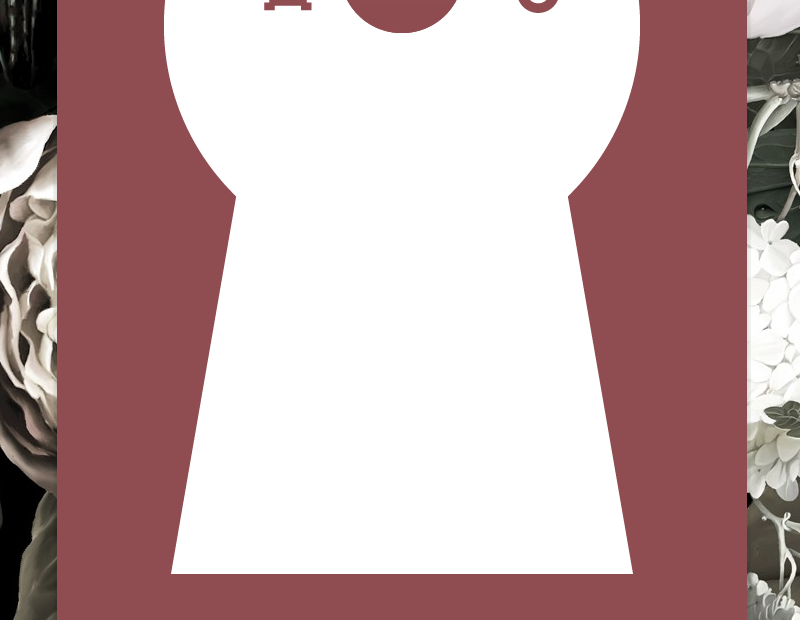
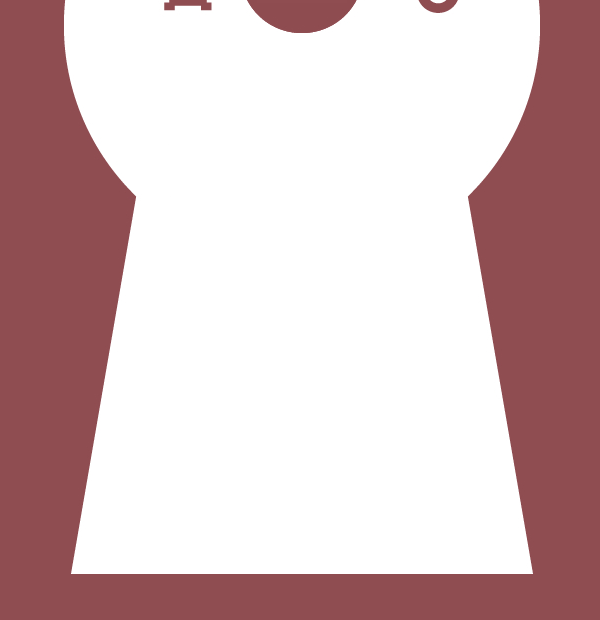
tweaked the email to use images

diff --git a/entry.php b/entry.php
@@ -30,15 +30,15 @@ function sendEmail($email, $code, $goal, $name, $id) {
 	$message .= "</style>\n";
 	$message .= "</head>\n";
 	$message .= "<body style='margin: 0; padding: 0; background: transparent url(http://www.waltonsecret.com/images/email/ws-email_bg.png'>\n";
-	$message .= "<table cellpadding='0' cellspacing='0' border='0' width='800px' style='min-width:800px; width: 800px;'>\n";
+	$message .= "<table cellpadding='0' cellspacing='0' border='0' width='600' style='min-width:600px; width: 600px;'>\n";
 	$message .= "<tr>\n";
 	$message .= "<td>\n";
-	$message .= "<table cellpadding='0' cellspacing='0' border='0' style='width: 800px;' width='800' background='http://www.waltonsecret.com/images/email/email_bg.png'>\n";
+	$message .= "<table cellpadding='0' cellspacing='0' border='0' style='width: 600px;' width='600' background='http://www.waltonsecret.com/images/email/email_bg.png'>\n";
 	$message .= "<tr>\n";
-	$message .= "<td width='800' colspan='3' style='color: #eeeeee; font-size: 8px; font-family: \"Century Gothic\", CenturyGothic, AppleGothic, sans-serif; background: transparent url(http://waltonsecret.com/images/email/ws-top.png) left top no-repeat; text-align: center; height: 210px;' valign='top'>\n";
-	$message .= "<table cellpadding='0' cellspacing='0' border='0' width='800'>\n\n";
+	$message .= "<td width='600' colspan='3' style='max-width: 600px; color: #eeeeee; font-size: 8px; font-family: \"Century Gothic\", CenturyGothic, AppleGothic, sans-serif; background: transparent url(http://waltonsecret.com/images/email/ws-top.png) left top no-repeat; text-align: center; height: 210px;' valign='top'>\n";
+	$message .= "<table cellpadding='0' cellspacing='0' border='0' width='600'>\n\n";
 	$message .= "<tr>\n";
-	$message .= "<td align='center' width='800' height='20' colspan='3'>\n";
+	$message .= "<td align='center' width='600' height='20' colspan='3'>\n";
 	$message .= "<p style='color: #bbbbbb; font-size: 10px; margin: 0; margin-top: 2px; padding-top: 0px; font-family: \"Century Gothic\", CenturyGothic, AppleGothic, sans-serif;'>\n";
 	$message .= "if it does not display properly <a style='color: #bbbbbb !important; font-size: 10px; padding-top: 10px; font-family: \"Century Gothic\", CenturyGothic, AppleGothic, sans-serif;' href='http://waltonsecret.com/email.php?user=".$id."&code=".$code."' >click here</a> to view it in your browser</p>\n";
 	$message .= "</td>\n";
@@ -66,20 +66,20 @@ function sendEmail($email, $code, $goal, $name, $id) {
 	$message .= "</td>\n";
 	$message .= "</tr>\n";
 	$message .= "<tr>\n";
-	$message .= "<td width='348' style='width: 348px;' height='45'><img width='348' style='max-width: 348px; width: 100%; display: block' src='http://waltonsecret.com/images/email/ws-left.png'/></td>\n";
+	$message .= "<td width='248' style='width: 248px;' height='45'><img width='248' style='max-width: 248px; width: 100%; display: block' src='http://waltonsecret.com/images/email/ws-left.png'/></td>\n";
 	$message .= "<td width='104' height='45' style='width: 104px;'><img width='104' style='display: block; width: 100%; max-width: 104px;' src='";
 	$message .= "http://waltonsecret.com/images/email_codes/".$code.".png";
 	$message .= "' alt='Your code' /></td>\n";
-	$message .= "<td width='348' style='width: 348px;' height='45'><img width='348' style='max-width: 348px; width: 100%; display: block' src='http://waltonsecret.com/images/email/ws-right.png'/></td>\n";
+	$message .= "<td width='248' style='width: 248px;' height='45'><img width='248' style='max-width: 248px; width: 100%; display: block' src='http://waltonsecret.com/images/email/ws-right.png'/></td>\n";
 	$message .= "</tr>\n";
 	$message .= "<tr>\n";
-	$message .= "<td colspan='3' width='800' height='620' valign='top' style='background: transparent url(http://waltonsecret.com/images/email/ws-bottom.png) left top no-repeat'>\n";
-	$message .= "<table cellpadding='0' cellspacing='0' border='0' width='800'>\n";
+	$message .= "<td colspan='3' width='600' height='620' valign='top' style='background: transparent url(http://waltonsecret.com/images/email/ws-bottom.png) left top no-repeat'>\n";
+	$message .= "<table cellpadding='0' cellspacing='0' border='0' width='600'>\n";
 	$message .= "<tr>\n";
 	$message .= "<td style='padding-top: 50px;'>\n";
-	$message .= "<table cellpadding='0' cellspacing='0' border='0' width='800'>\n";
+	$message .= "<table cellpadding='0' cellspacing='0' border='0' width='600'>\n";
 	$message .= "<tr>\n";
-	$message .= "<td width='215'></td>\n";
+	$message .= "<td width='115'></td>\n";
 	$message .= "<td width='370' align='center'>\n";
 	$message .= "<table cellpadding='0' cellspacing='0' border='0' width='370'>\n";
 	$message .= "<tr>\n";
@@ -96,16 +96,16 @@ function sendEmail($email, $code, $goal, $name, $id) {
 	$message .= "</tr>\n";
 	$message .= "</table>\n";
 	$message .= "</td>\n";
-	$message .= "<td width='215'></td>\n";
+	$message .= "<td width='115'></td>\n";
 	$message .= "</tr>\n";
 	$message .= "</table>\n";
 	$message .= "</td>\n";
 	$message .= "</tr>\n";
 	$message .= "<tr>\n";
 	$message .= "<td>\n";
-	$message .= "<table cellpadding='0' cellspacing='0' border='0' width='800'>\n";
+	$message .= "<table cellpadding='0' cellspacing='0' border='0' width='600'>\n";
 	$message .= "<tr>\n";
-	$message .= "<td width='270' style='width:270px;'></td>\n";
+	$message .= "<td width='170' style='width:170px;'></td>\n";
 	$message .= "<td width='260' style='padding-top: 50px;'>\n";
 	$message .= "<table cellpadding='0' cellspacing='0' border='0' width='260' style='border-top: 1px solid #AAAAAA; border-bottom: 1px solid #AAAAAA; height: 240px;'>\n";
 	$message .= "<tr>\n";
@@ -120,10 +120,10 @@ function sendEmail($email, $code, $goal, $name, $id) {
 	$message .= "</tr>\n";
 	$message .= "</table>\n";
 	$message .= "</td>\n";
-	$message .= "<td width='270'style='width:270px;'></td>\n";
+	$message .= "<td width='170'style='width:270px;'></td>\n";
 	$message .= "</tr>\n";
 	$message .= "<tr>\n";
-	$message .= "<td width='270' style='width:270px;'></td>\n";
+	$message .= "<td width='170' style='width:170px;'></td>\n";
 	$message .= "<td width='260' style='width: 260px; padding-top: 20px;'>\n";
 	$message .= "<table cellpadding='0' cellspacing='0' border='0' width='260'>\n";
 	$message .= "<tr>\n";
@@ -140,7 +140,7 @@ function sendEmail($email, $code, $goal, $name, $id) {
 	$message .= "</tr>\n";
 	$message .= "</table>\n";
 	$message .= "</td>\n";
-	$message .= "<td width='270' style='width:270px;'></td>\n";
+	$message .= "<td width='170' style='width:170px;'></td>\n";
 	$message .= "</tr>\n";
 	$message .= "</table>\n";
 	$message .= "</td>\n";
